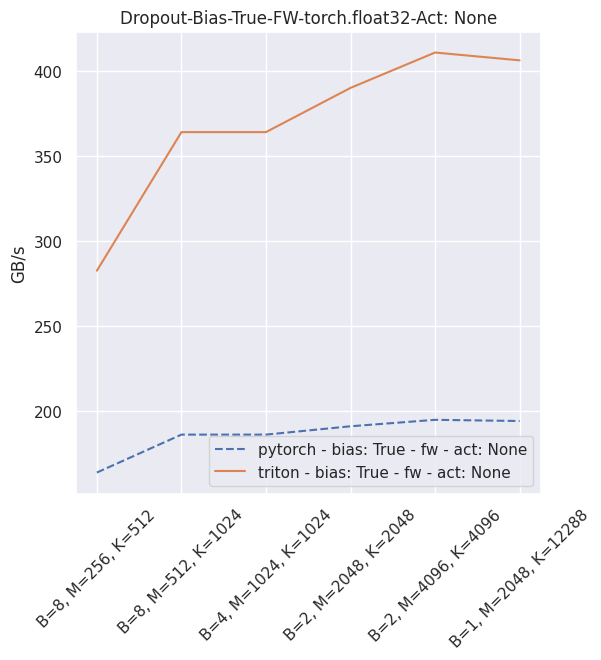
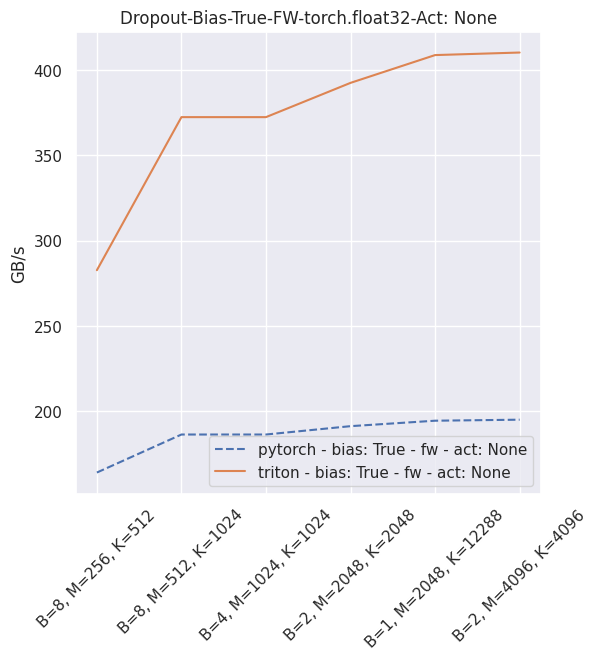
trying to find better scheduling defaults

diff --git a/xformers/triton/k_sum.py b/xformers/triton/k_sum.py
@@ -10,13 +10,14 @@ import triton.language as tl
 # fmt: off
 @triton.autotune(
     configs=[
-        triton.Config({"BLOCK_M": 32, "BLOCK_N": 16}, num_stages=5, num_warps=1),
-        triton.Config({"BLOCK_M": 64, "BLOCK_N": 16}, num_stages=5, num_warps=2),
-        triton.Config({"BLOCK_M": 128, "BLOCK_N": 16}, num_stages=5, num_warps=2),
-        triton.Config({"BLOCK_M": 256, "BLOCK_N": 16}, num_stages=5, num_warps=2),
-        triton.Config({"BLOCK_M": 512, "BLOCK_N": 16}, num_stages=5, num_warps=2),
-        triton.Config({"BLOCK_M": 1024, "BLOCK_N": 16}, num_stages=5, num_warps=4),
-        triton.Config({"BLOCK_M": 2048, "BLOCK_N": 16}, num_stages=5, num_warps=4),
+        triton.Config({"BLOCK_M": 32,   "BLOCK_N": 32}, num_warps=1),
+        triton.Config({"BLOCK_M": 64,   "BLOCK_N": 32}, num_warps=1),
+        triton.Config({"BLOCK_M": 128,  "BLOCK_N": 16}, num_warps=1),
+        triton.Config({"BLOCK_M": 256,  "BLOCK_N": 8}, num_warps=2),
+        triton.Config({"BLOCK_M": 512,  "BLOCK_N": 8}, num_warps=2),
+        triton.Config({"BLOCK_M": 1024, "BLOCK_N": 8}, num_warps=2),
+        triton.Config({"BLOCK_M": 2048, "BLOCK_N": 8}, num_warps=2),
+        triton.Config({"BLOCK_M": 4096, "BLOCK_N": 8}, num_warps=2),
     ],
     key=["M", "N", "is_fp16"],
 )
@@ -25,7 +26,7 @@ def k_sum_0(
     Y, X,
     stride_xm,
     M, N,
-    is_fp16,  # useful for autotune
+    is_fp16,
     **meta,
 ):
     # fmt: om
@@ -47,14 +48,13 @@ def k_sum_0(
     x_ptrs = X + m[:, None] * stride_xm + rn[None, :]
     x_sum = tl.zeros((BLOCK_N,), dtype=tl.float32)
 
-    tiles = M // BLOCK_M
-    if M % BLOCK_M > 0:
-        tiles += 1
+    tiles = tl.cdiv(M, BLOCK_M)
+    col_mask = (rn[None, :] < N)
 
     for _ in range(tiles):
         # load input data; pad out-of-bounds elements with 0
         # NOTE: make sure to accumulate in fp32 to prevent a trivial overflow
-        mask = (m[:, None] < M) & (rn[None, :] < N)
+        mask = (m[:, None] < M) & col_mask
         x = tl.load(x_ptrs, mask=mask, other=0.0)
         x_sum += tl.sum(x, 0)
 

diff --git a/xformers/triton/k_dropout.py b/xformers/triton/k_dropout.py
@@ -19,54 +19,6 @@ _k_configs = [
 ]
 
 
-def get_depth(*args, **_):
-    return triton.next_power_of_2(args[-1])
-
-
-# autotune: Triton will test out these configurations, and automatically pick the fastest one.
-# heuristic: add arguments to the kernel call automatically given some heuristics. These arguments are passed in "meta"
-# fmt: off
-@triton.autotune(
-    configs=[
-        triton.Config({"BLOCK_N": 1}, num_warps=4),
-        triton.Config({"BLOCK_N": 2}, num_warps=4),
-        triton.Config({"BLOCK_N": 8}, num_warps=4),
-        triton.Config({"BLOCK_N": 1}, num_warps=8),
-        triton.Config({"BLOCK_N": 2}, num_warps=8),
-        triton.Config({"BLOCK_N": 8}, num_warps=8),
-    ],
-    key=["M", "N"],
-)
-@triton.heuristics(values={"depth": get_depth})
-@triton.jit
-def k_sum_0(
-    Y, X,
-    stride_xm,
-    M, N,
-    **meta,  # extra parameters which can be automatically filled in given some heuristics
-):
-    # fmt: om
-
-    """
-    Sum a 2d tensor over the first dimension
-    """
-
-    n = tl.program_id(0)
-
-    # row indices
-    m = tl.arange(0, meta["depth"])
-    rn = n * meta["BLOCK_N"] + tl.arange(0, meta["BLOCK_N"])
-
-    # the memory address of all the elements that we want to load can be computed as follows
-    x_ptrs = X + m[:, None] * stride_xm + rn[None, :]
-
-    # load input data; pad out-of-bounds elements with 0
-    x = tl.load(x_ptrs, mask=(m[:, None] < M) & (rn[None, :] < N), other=0.)
-
-    x_sum = tl.sum(x, 0)
-    tl.store(Y + rn, x_sum, mask=rn < N)
-
-
 @triton.jit
 def _drop_and_scale(SEEDS, row, p, offsets, x):
     # randomly prune the weights

diff --git a/xformers/triton/sum_strided.py b/xformers/triton/sum_strided.py
@@ -20,18 +20,16 @@ def sum_2d_dim_0(x: torch.Tensor):
     assert (
         x.ndim == 2
     ), "This is a very specific kernel, only for 2-dim tensors and summing along dim 0"
+    M, N = x.shape
 
     assert (
-        x.shape[0] >= 4
+        M >= 4
     ), "This is a very specific kernel, requires the reduction dimension to be bigger than 4"
 
     assert x.stride(1) == 1, (
         "We're expecting x to be contiguous along dim 1, and non contiguous along dim 0.\n"
         " You would probably be better served with torch.sum()"
     )
-
-    # Manually handle the scheduling
-    M, N = x.shape
 
     def grid(meta):
         return (triton.cdiv(N, meta["BLOCK_N"]),)
@@ -41,7 +39,7 @@ def sum_2d_dim_0(x: torch.Tensor):
         out, x,
         x.stride(0),
         M, N,
-        x.dtype == torch.float16
+        x.dtype == torch.float16,
     )
     # fmt: on
 
